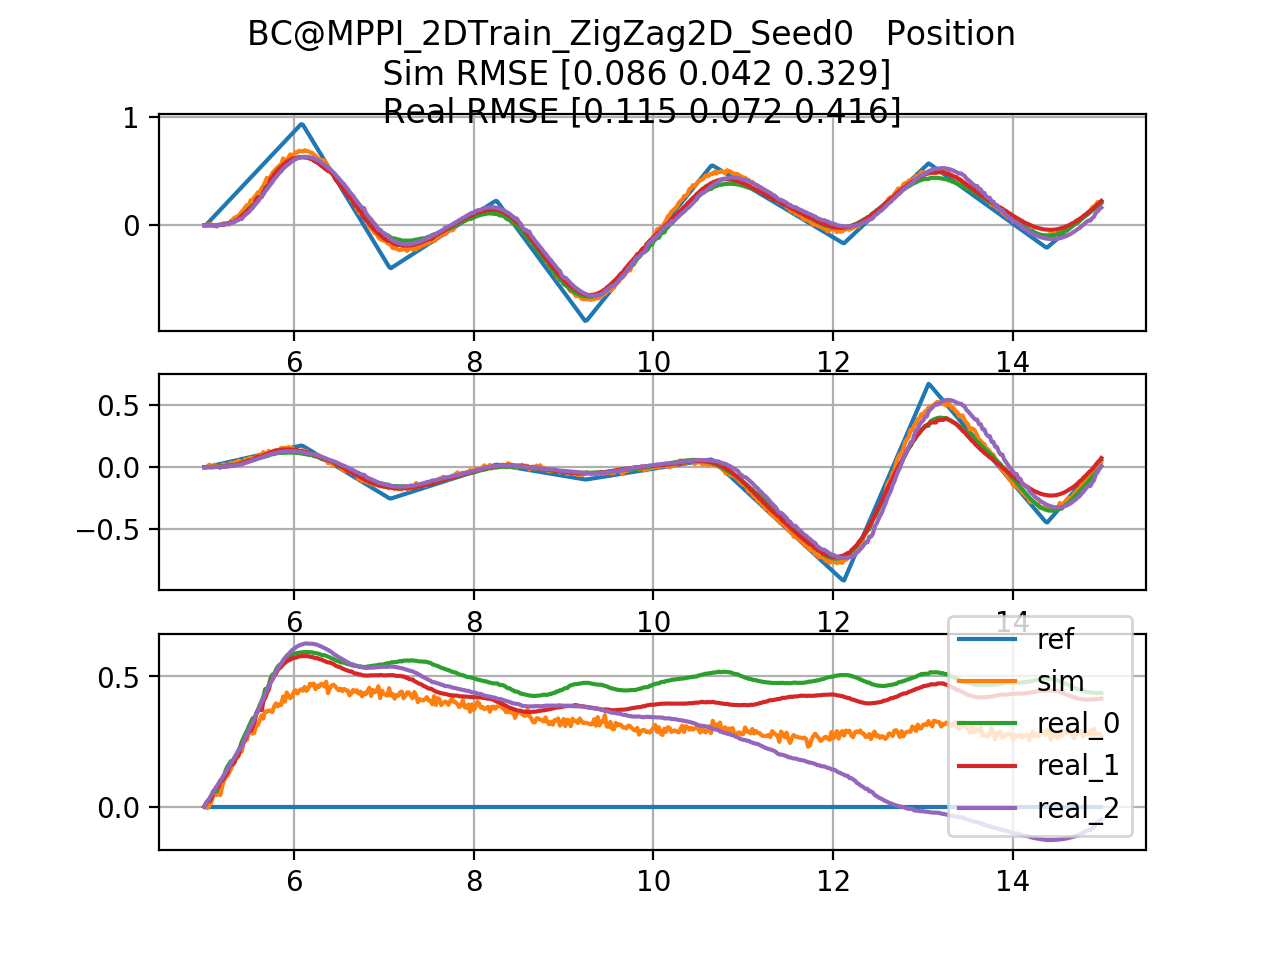
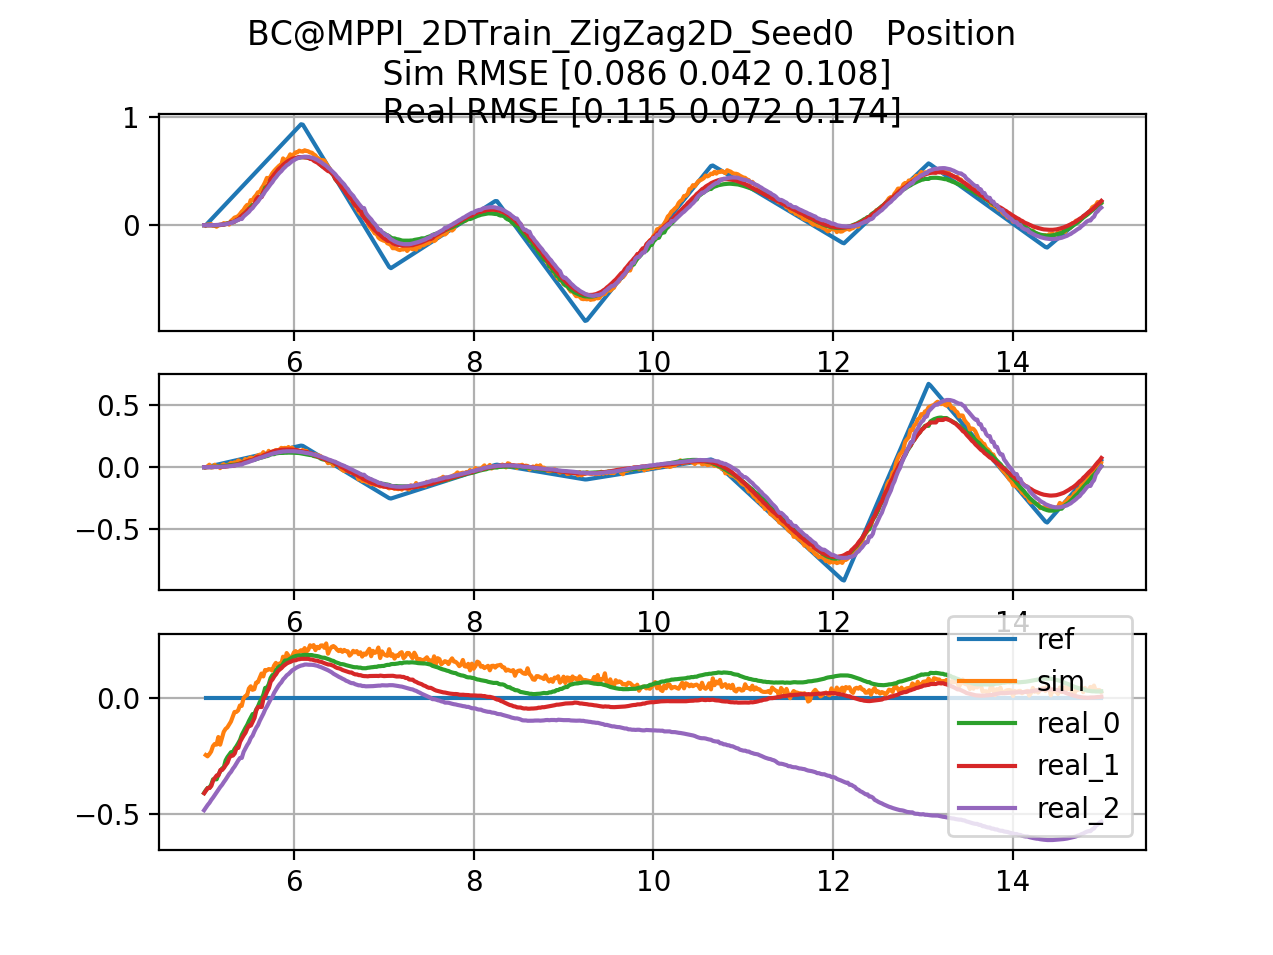
z plot bug fix

diff --git a/logs/CORL/simVreal.py b/logs/CORL/simVreal.py
@@ -32,7 +32,8 @@ def plot_npz(filename, files_n_types, args):
 
         data['ts'] = saved_data['ts'][t_mask]
         data['pose_positions'] = saved_data['pose_positions'][t_mask] #- saved_data['pose_positions'][st]
-        data['pose_positions'] -= data["pose_positions"][0]
+        data['pose_positions'][:, :2] -= data["pose_positions"][0, :2]
+        data['pose_positions'][:, 2] -= 1.0
         data['pose_orientations'] = saved_data['pose_orientations'][t_mask]
 
         # data['cf_positions'] = saved_data['cf_positions'][t_mask] - saved_data['cf_positions'][st]
